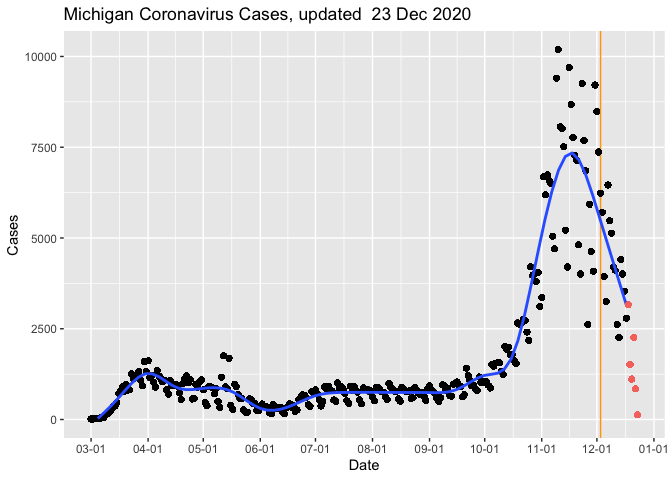
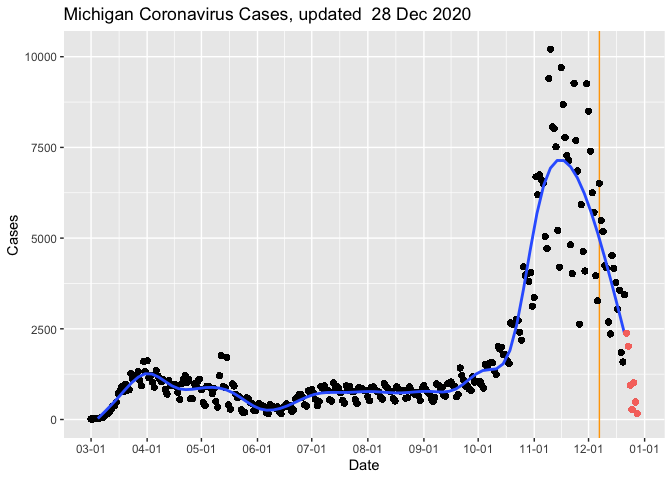
Dec-28 2020 22:31 update

diff --git a/MiCorona.md b/MiCorona.md
@@ -1,7 +1,7 @@
 Michigan COVID Data
 ================
 Adam D. DenHaan
-Dec 24, 2020
+Dec 28, 2020
 
 ``` python
 from urllib.request import urlopen
@@ -34,7 +34,7 @@ mi_data = readxl::read_excel("data/covid.xlsx")
 glimpse(mi_data)
 ```
 
-    ## Rows: 52,456
+    ## Rows: 53,336
     ## Columns: 8
     ## $ COUNTY            <chr> "Alcona", "Alcona", "Alcona", "Alcona", "Alcona", "…
     ## $ Date              <dttm> 2020-03-01, 2020-03-02, 2020-03-03, 2020-03-04, 20…
@@ -43,7 +43,7 @@ glimpse(mi_data)
     ## $ Deaths            <dbl> 0, 0, 0, 0, 0, 0, 0, 0, 0, 0, 0, 0, 0, 0, 0, 0, 0, …
     ## $ Cases.Cumulative  <dbl> 0, 0, 0, 0, 0, 0, 0, 0, 0, 0, 0, 0, 0, 0, 0, 0, 0, …
     ## $ Deaths.Cumulative <dbl> 0, 0, 0, 0, 0, 0, 0, 0, 0, 0, 0, 0, 0, 0, 0, 0, 0, …
-    ## $ Updated           <dttm> 2020-12-23 15:27:07, 2020-12-23 15:27:07, 2020-12-…
+    ## $ Updated           <dttm> 2020-12-28 13:37:17, 2020-12-28 13:37:17, 2020-12-…
 
 Wrangle Data:
 
@@ -97,7 +97,7 @@ mi_cases_by_day_exclusive %>%
 
 ![](MiCorona_files/figure-gfm/viz-1.png)<!-- -->
 
-Note that the last 6 days of data have been colored red on the graph, as
+Note that the last 7 days of data have been colored red on the graph, as
 they frequently change as more information becomes available. Vertical
 orange line at 3 weeks in the past (as hospitalizations usually follow
 cases by three weeks).
